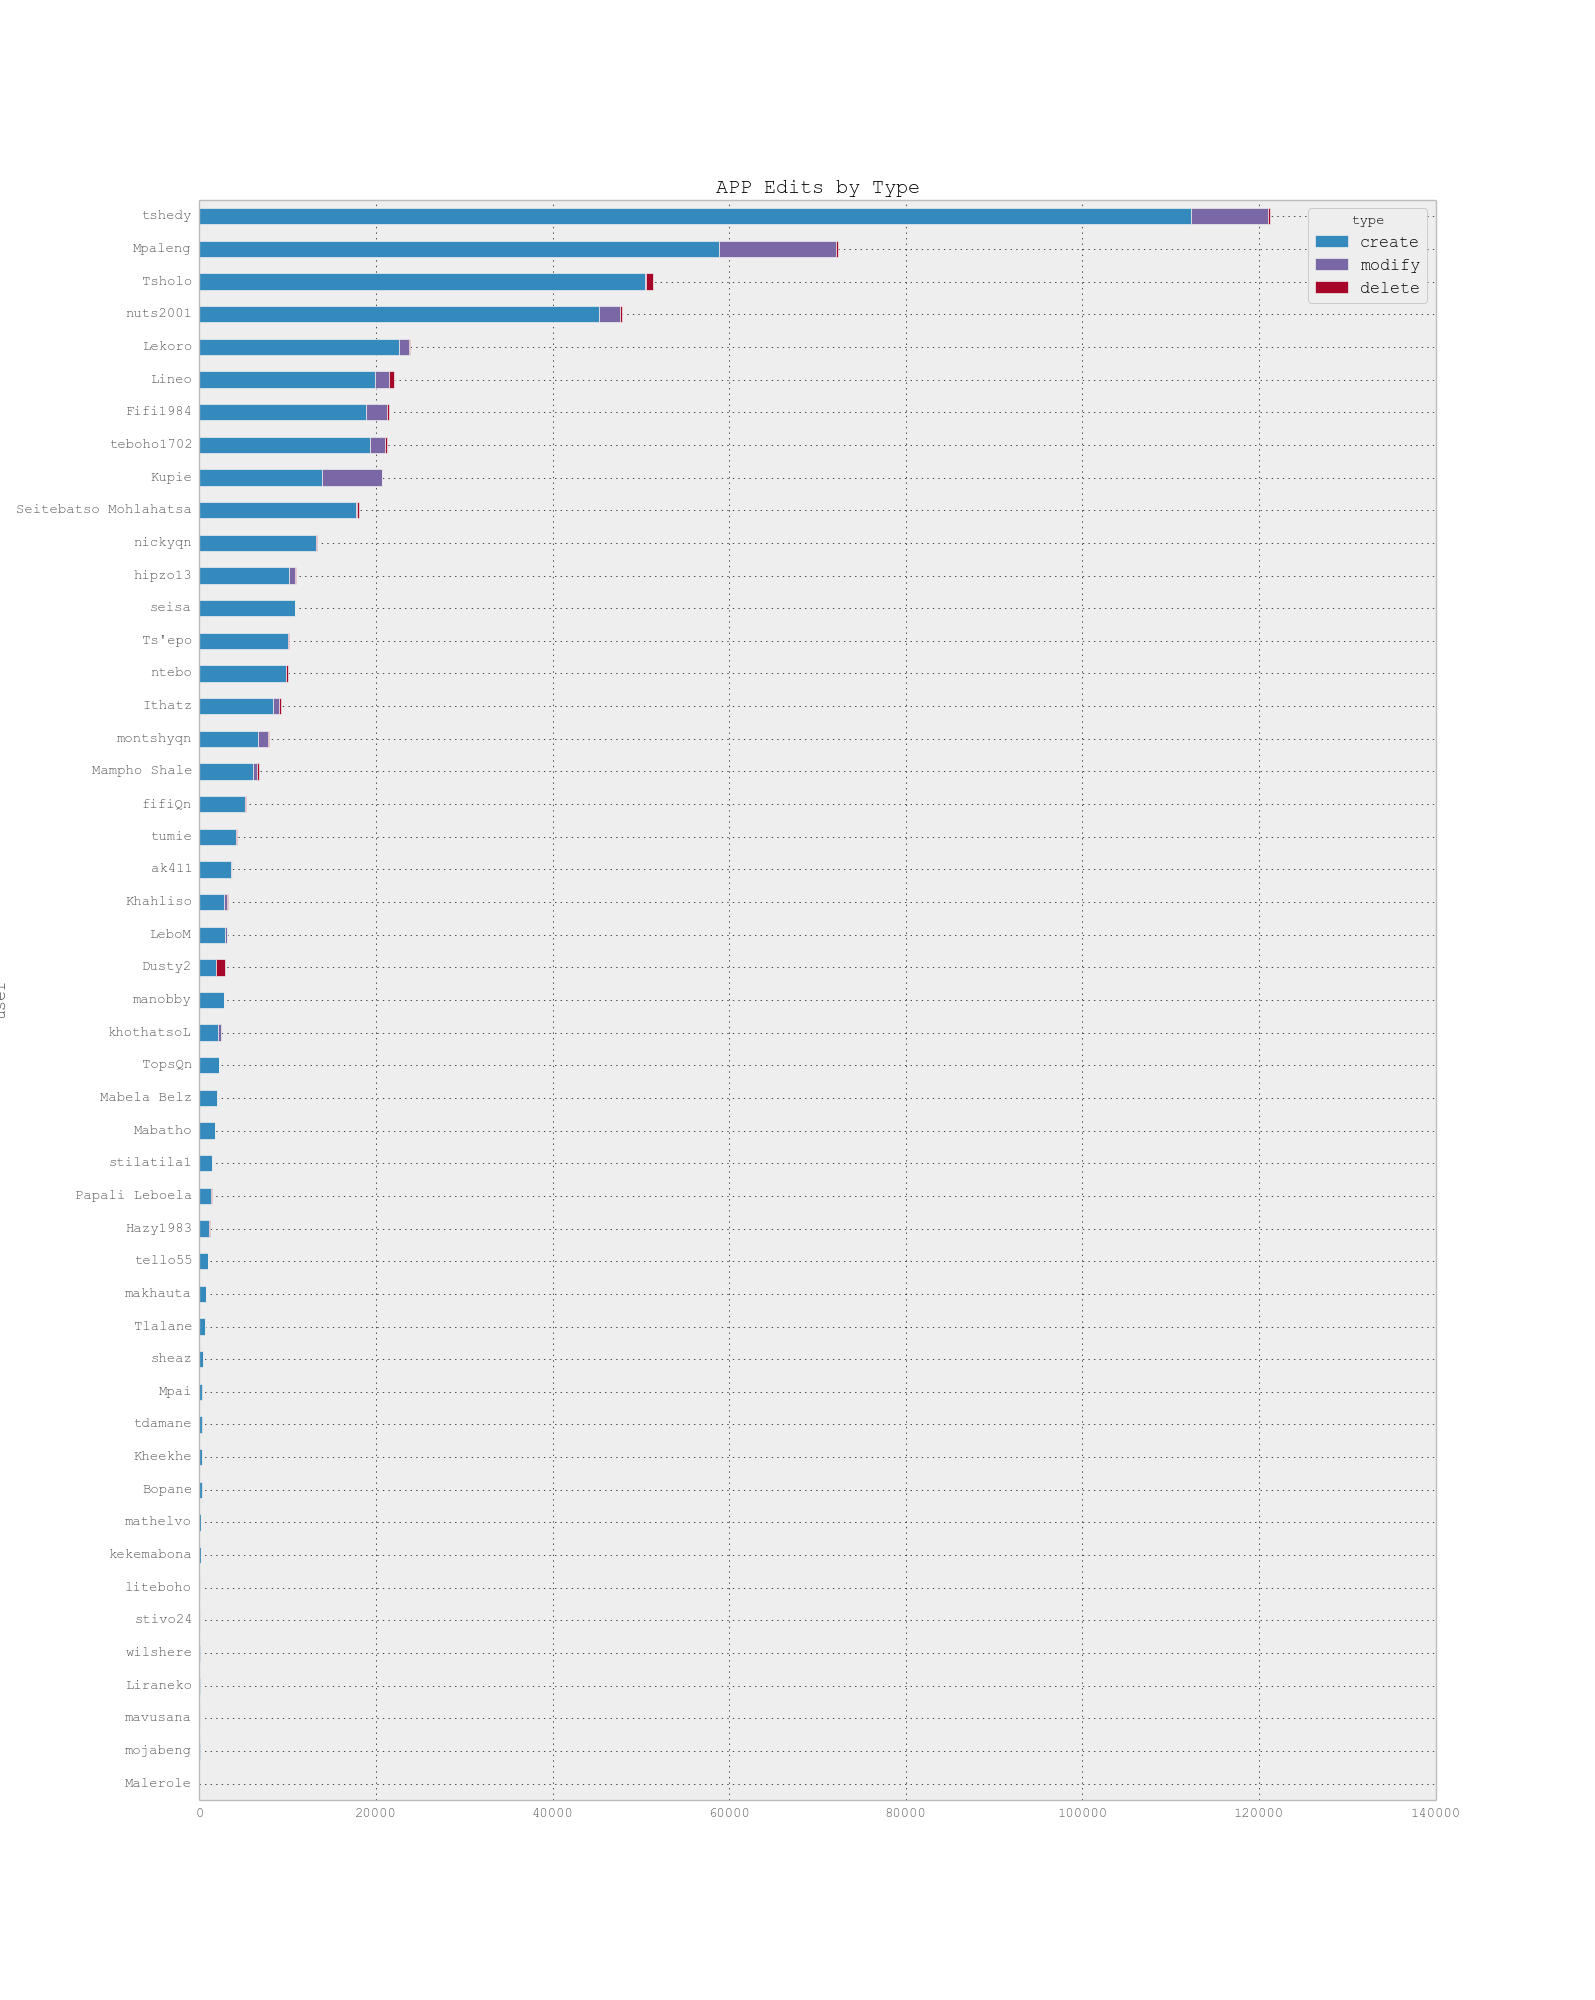
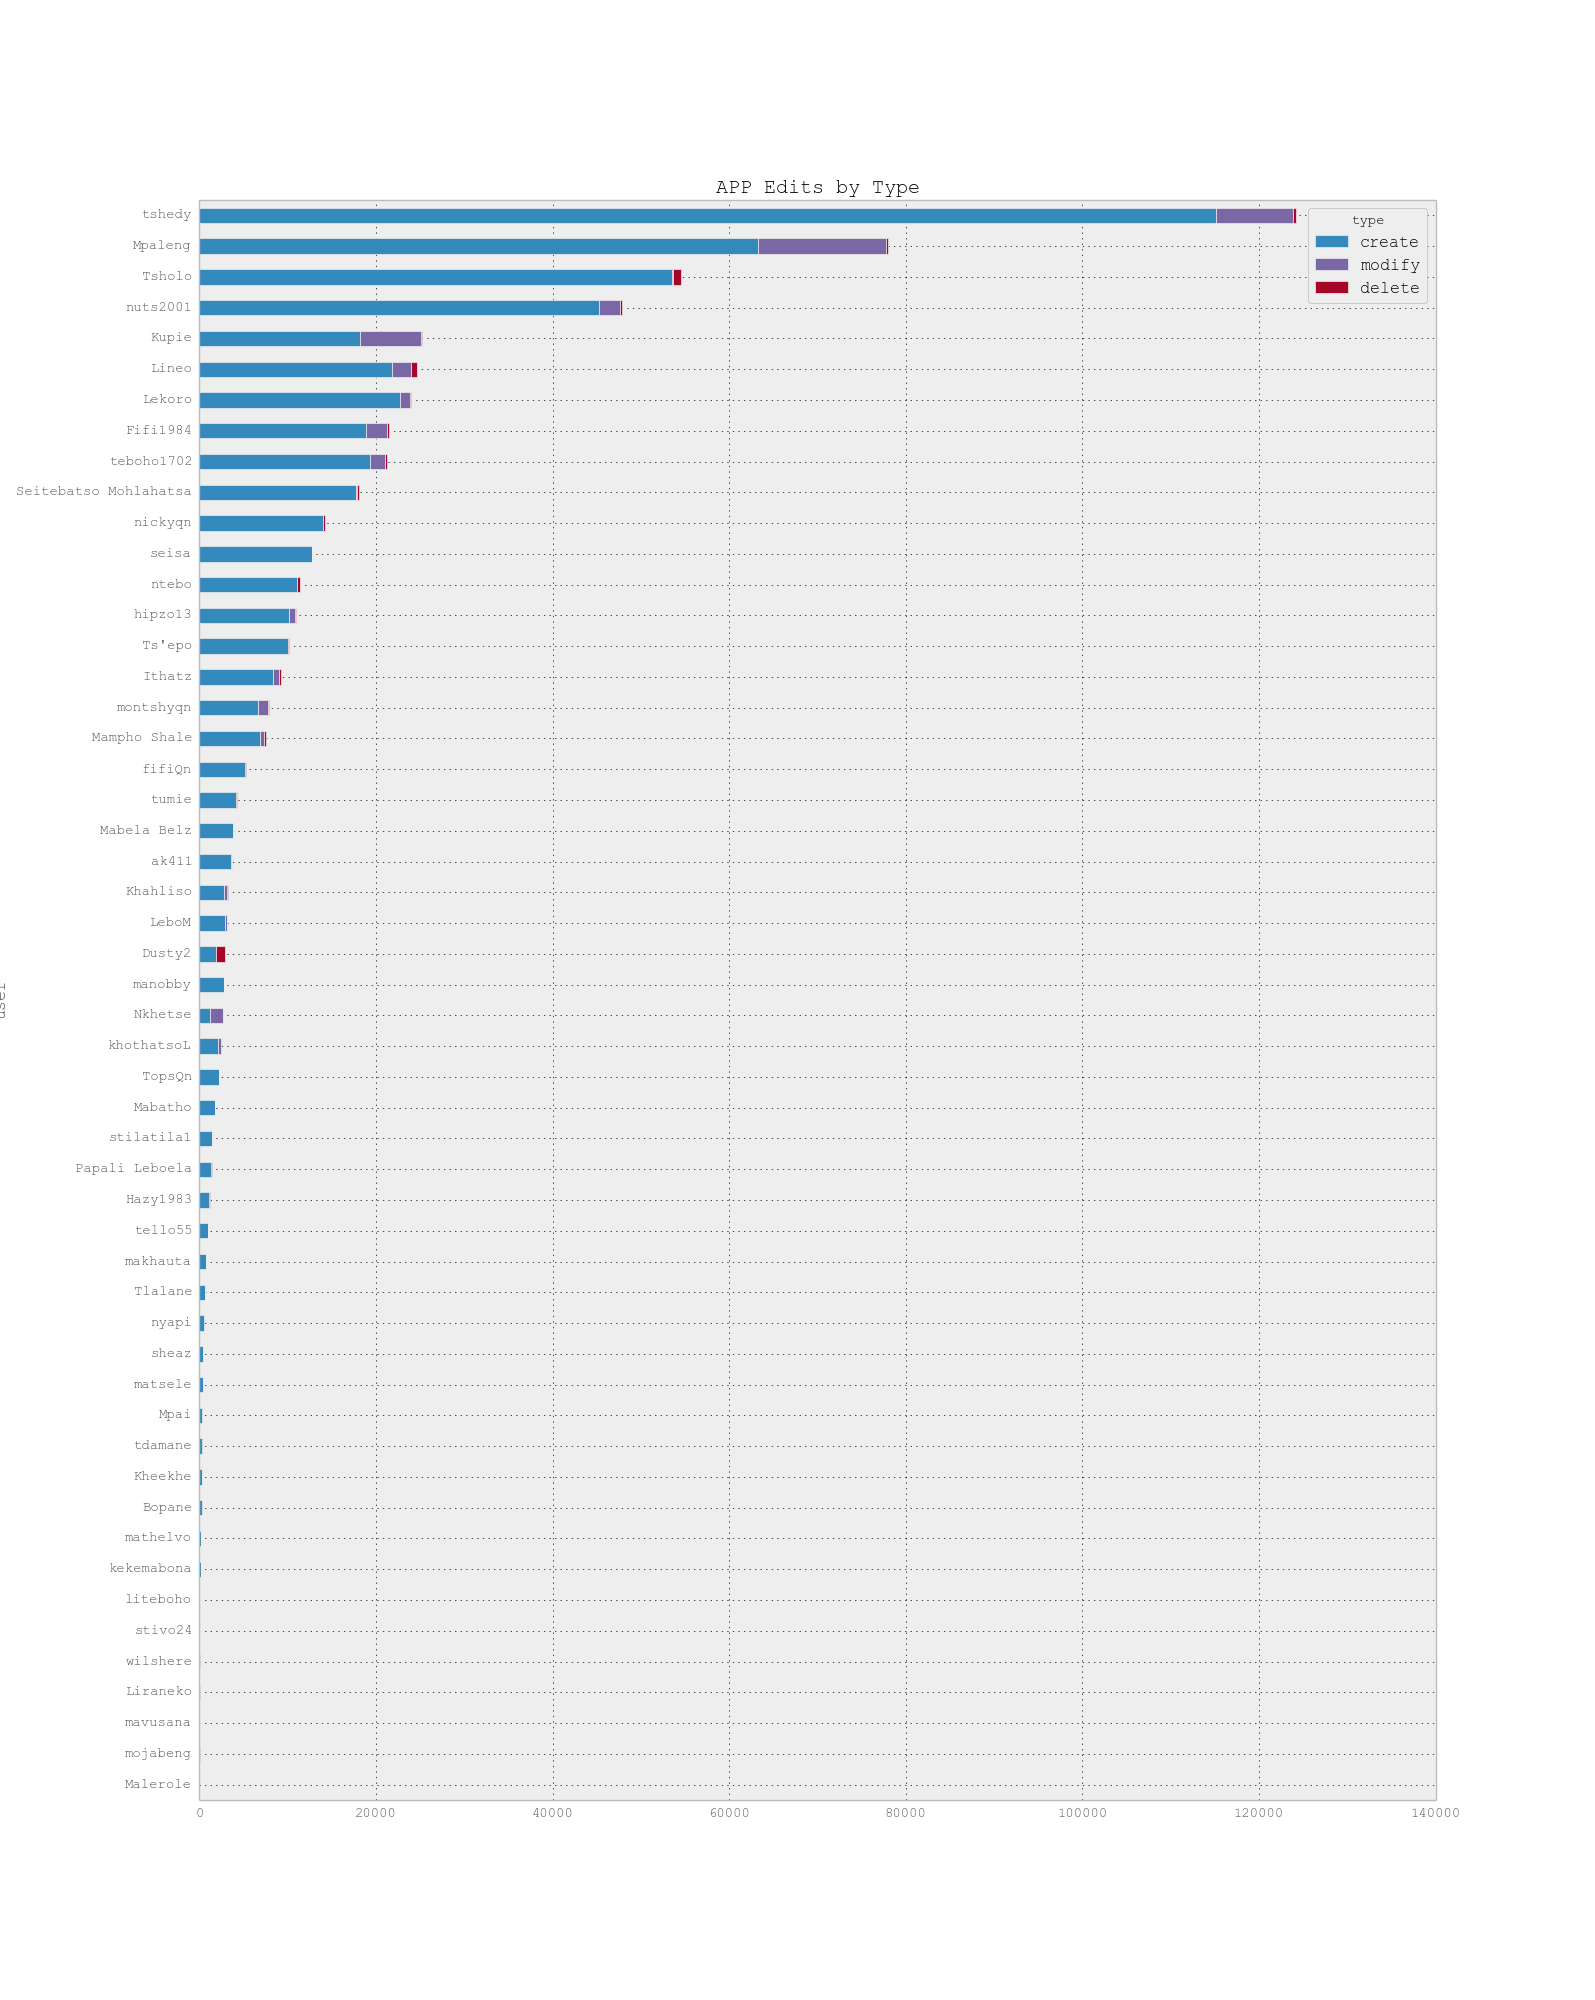
stats updated 08-08-2015

diff --git a/index.html b/index.html
@@ -73,45 +73,52 @@
   <tbody>
     <tr>
       <td>tshedy</td>
-      <td>112265</td>
-      <td>268</td>
-      <td>8759</td>
-      <td>121292</td>
+      <td>115141</td>
+      <td>296</td>
+      <td>8775</td>
+      <td>124212</td>
     </tr>
     <tr>
       <td>Mpaleng</td>
-      <td>58887</td>
-      <td>220</td>
-      <td>13247</td>
-      <td>72354</td>
+      <td>63298</td>
+      <td>237</td>
+      <td>14465</td>
+      <td>78000</td>
     </tr>
     <tr>
       <td>Tsholo</td>
-      <td>50422</td>
-      <td>819</td>
+      <td>53531</td>
+      <td>820</td>
       <td>164</td>
-      <td>51405</td>
+      <td>54515</td>
     </tr>
     <tr>
       <td>nuts2001</td>
       <td>45269</td>
-      <td>190</td>
+      <td>196</td>
       <td>2420</td>
-      <td>47879</td>
+      <td>47885</td>
     </tr>
     <tr>
-      <td>Lekoro</td>
-      <td>22599</td>
-      <td>49</td>
-      <td>1194</td>
-      <td>23842</td>
+      <td>Kupie</td>
+      <td>18231</td>
+      <td>7</td>
+      <td>6926</td>
+      <td>25164</td>
     </tr>
     <tr>
       <td>Lineo</td>
-      <td>19879</td>
-      <td>632</td>
-      <td>1564</td>
-      <td>22075</td>
+      <td>21866</td>
+      <td>642</td>
+      <td>2106</td>
+      <td>24614</td>
+    </tr>
+    <tr>
+      <td>Lekoro</td>
+      <td>22677</td>
+      <td>49</td>
+      <td>1194</td>
+      <td>23920</td>
     </tr>
     <tr>
       <td>Fifi1984</td>
@@ -123,16 +130,9 @@
     <tr>
       <td>teboho1702</td>
       <td>19279</td>
-      <td>283</td>
+      <td>290</td>
       <td>1736</td>
-      <td>21298</td>
-    </tr>
-    <tr>
-      <td>Kupie</td>
-      <td>13842</td>
-      <td>7</td>
-      <td>6796</td>
-      <td>20645</td>
+      <td>21305</td>
     </tr>
     <tr>
       <td>Seitebatso Mohlahatsa</td>
@@ -143,59 +143,59 @@
     </tr>
     <tr>
       <td>nickyqn</td>
-      <td>13181</td>
-      <td>180</td>
-      <td>0</td>
-      <td>13361</td>
+      <td>14016</td>
+      <td>181</td>
+      <td>1</td>
+      <td>14198</td>
+    </tr>
+    <tr>
+      <td>seisa</td>
+      <td>12747</td>
+      <td>25</td>
+      <td>4</td>
+      <td>12776</td>
+    </tr>
+    <tr>
+      <td>ntebo</td>
+      <td>11092</td>
+      <td>315</td>
+      <td>4</td>
+      <td>11411</td>
     </tr>
     <tr>
       <td>hipzo13</td>
       <td>10157</td>
-      <td>146</td>
+      <td>148</td>
       <td>664</td>
-      <td>10967</td>
-    </tr>
-    <tr>
-      <td>seisa</td>
-      <td>10846</td>
-      <td>25</td>
-      <td>4</td>
-      <td>10875</td>
+      <td>10969</td>
     </tr>
     <tr>
       <td>Ts'epo</td>
       <td>10000</td>
-      <td>62</td>
+      <td>101</td>
       <td>36</td>
-      <td>10098</td>
-    </tr>
-    <tr>
-      <td>ntebo</td>
-      <td>9821</td>
-      <td>246</td>
-      <td>4</td>
-      <td>10071</td>
+      <td>10137</td>
     </tr>
     <tr>
       <td>Ithatz</td>
       <td>8341</td>
-      <td>162</td>
+      <td>167</td>
       <td>725</td>
-      <td>9228</td>
+      <td>9233</td>
     </tr>
     <tr>
       <td>montshyqn</td>
       <td>6645</td>
-      <td>61</td>
+      <td>70</td>
       <td>1175</td>
-      <td>7881</td>
+      <td>7890</td>
     </tr>
     <tr>
       <td>Mampho Shale</td>
-      <td>6065</td>
-      <td>203</td>
+      <td>6852</td>
+      <td>206</td>
       <td>460</td>
-      <td>6728</td>
+      <td>7518</td>
     </tr>
     <tr>
       <td>fifiQn</td>
@@ -210,6 +210,13 @@
       <td>54</td>
       <td>14</td>
       <td>4251</td>
+    </tr>
+    <tr>
+      <td>Mabela Belz</td>
+      <td>3765</td>
+      <td>0</td>
+      <td>60</td>
+      <td>3825</td>
     </tr>
     <tr>
       <td>ak411</td>
@@ -235,16 +242,23 @@
     <tr>
       <td>Dusty2</td>
       <td>1873</td>
-      <td>1014</td>
+      <td>1022</td>
       <td>0</td>
-      <td>2887</td>
+      <td>2895</td>
     </tr>
     <tr>
       <td>manobby</td>
       <td>2763</td>
-      <td>20</td>
+      <td>51</td>
       <td>13</td>
-      <td>2796</td>
+      <td>2827</td>
+    </tr>
+    <tr>
+      <td>Nkhetse</td>
+      <td>1179</td>
+      <td>15</td>
+      <td>1524</td>
+      <td>2718</td>
     </tr>
     <tr>
       <td>khothatsoL</td>
@@ -259,13 +273,6 @@
       <td>8</td>
       <td>26</td>
       <td>2220</td>
-    </tr>
-    <tr>
-      <td>Mabela Belz</td>
-      <td>1956</td>
-      <td>0</td>
-      <td>56</td>
-      <td>2012</td>
     </tr>
     <tr>
       <td>Mabatho</td>
@@ -305,9 +312,9 @@
     <tr>
       <td>makhauta</td>
       <td>700</td>
-      <td>55</td>
+      <td>64</td>
       <td>4</td>
-      <td>759</td>
+      <td>768</td>
     </tr>
     <tr>
       <td>Tlalane</td>
@@ -317,11 +324,25 @@
       <td>632</td>
     </tr>
     <tr>
+      <td>nyapi</td>
+      <td>517</td>
+      <td>0</td>
+      <td>0</td>
+      <td>517</td>
+    </tr>
+    <tr>
       <td>sheaz</td>
       <td>397</td>
       <td>0</td>
       <td>1</td>
       <td>398</td>
+    </tr>
+    <tr>
+      <td>matsele</td>
+      <td>378</td>
+      <td>0</td>
+      <td>1</td>
+      <td>379</td>
     </tr>
     <tr>
       <td>Mpai</td>
